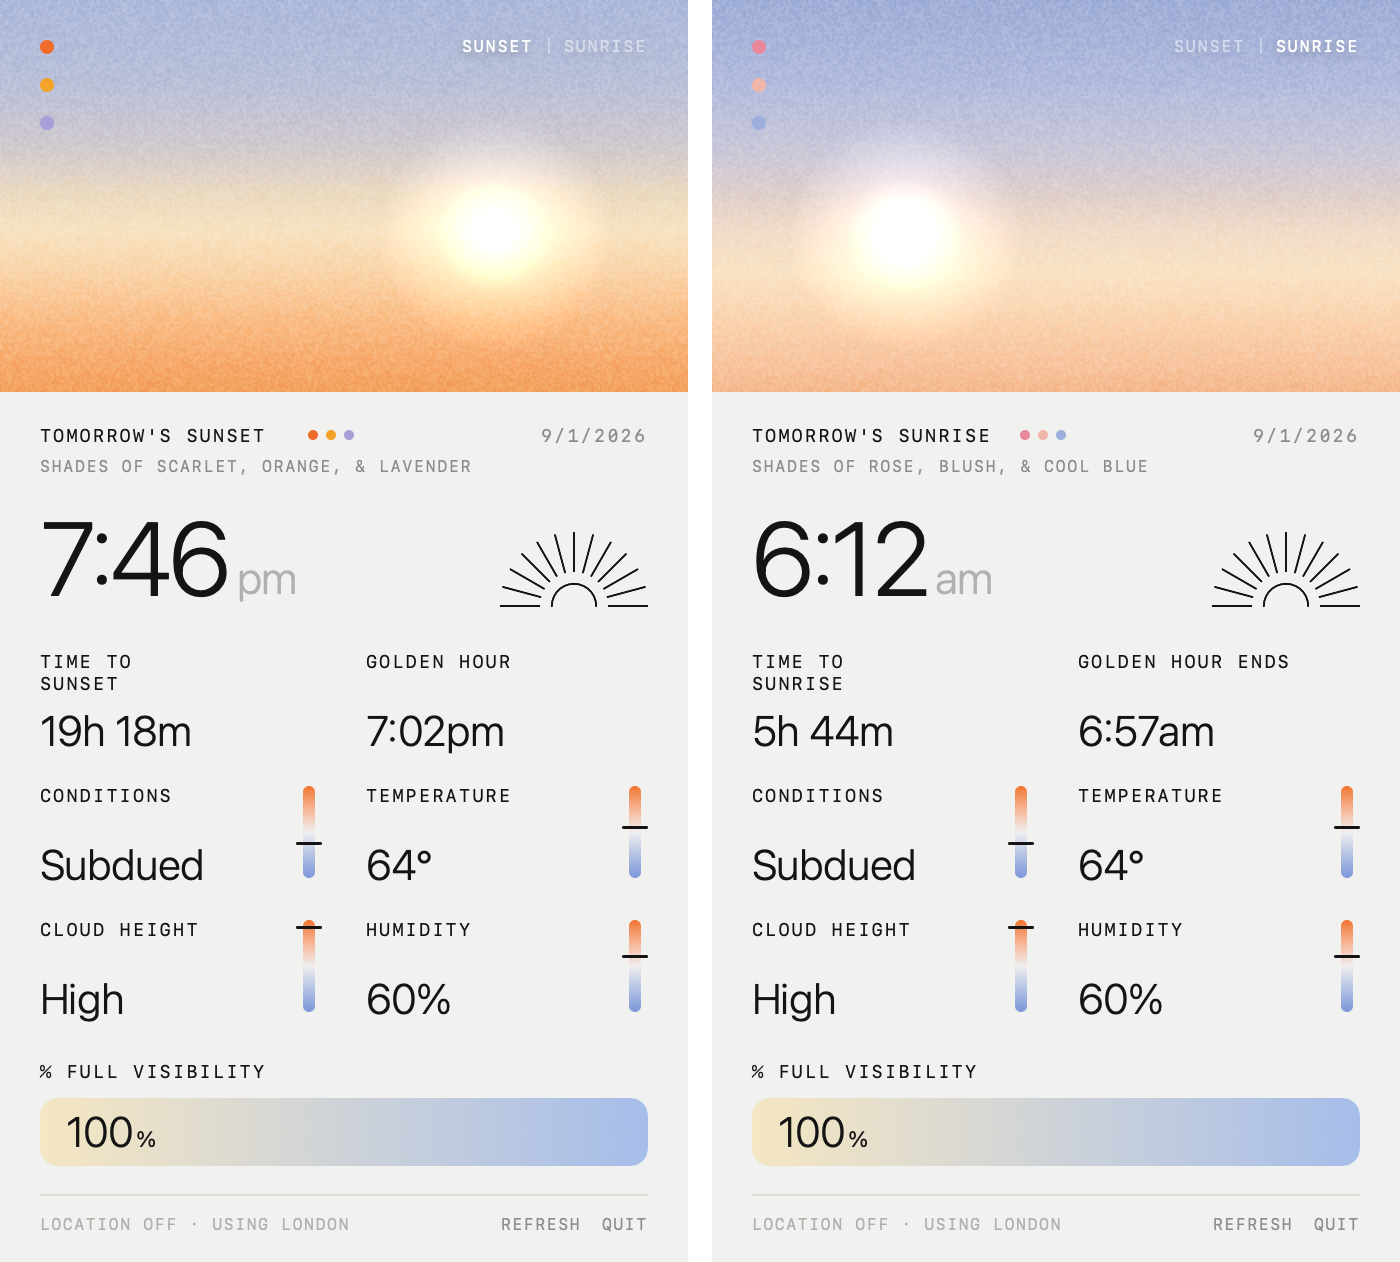
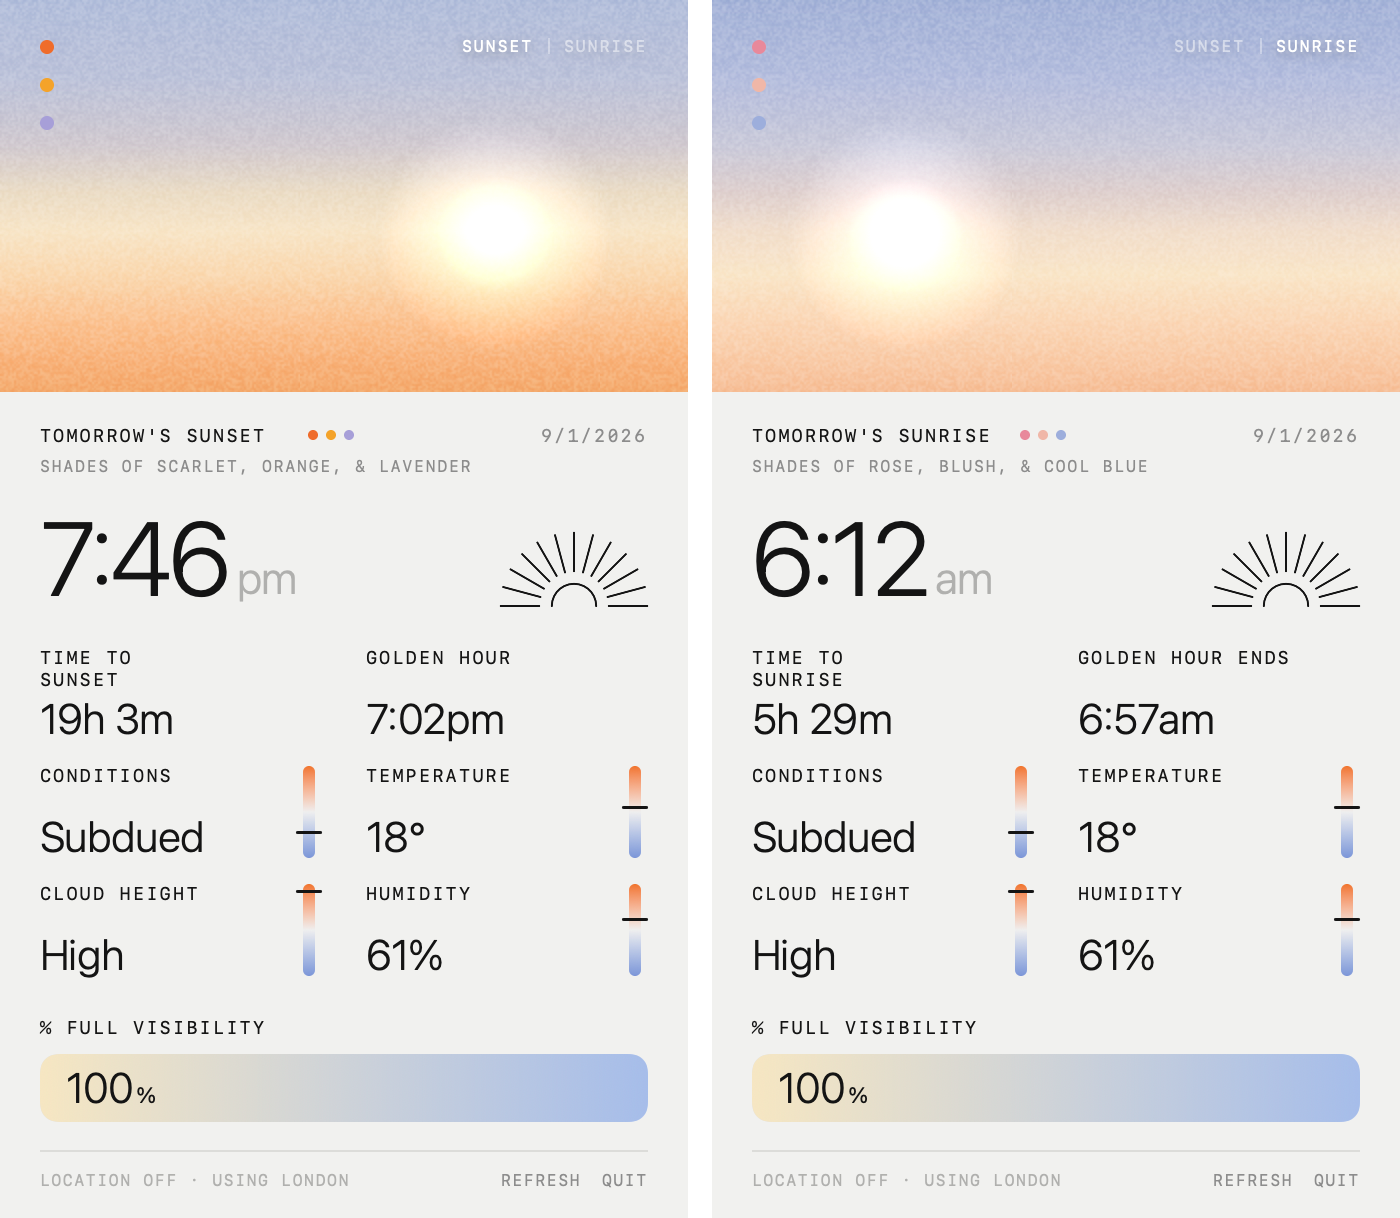
Show temperature in Celsius
Open-Meteo returns Celsius by default; the request was explicitly
overriding it to Fahrenheit. Drop the override and remap the gauge from
20-100F to -10-40C so the tick still spans a sensible range.

Screenshots regenerated.

diff --git a/Sources/SunsetBar/Weather.swift b/Sources/SunsetBar/Weather.swift
@@ -1,7 +1,7 @@
 import Foundation
 
 struct WeatherSnapshot {
-    var temperatureF: Double
+    var temperatureC: Double
     var humidity: Double        // %
     var cloudLow: Double        // %
     var cloudMid: Double        // %
@@ -61,7 +61,6 @@ enum WeatherService {
             .init(name: "longitude", value: String(format: "%.4f", longitude)),
             .init(name: "current", value: "temperature_2m,relative_humidity_2m,cloud_cover_low,cloud_cover_mid,cloud_cover_high"),
             .init(name: "hourly", value: "visibility"),
-            .init(name: "temperature_unit", value: "fahrenheit"),
             .init(name: "forecast_days", value: "1"),
             .init(name: "timezone", value: "auto"),
         ]
@@ -90,7 +89,7 @@ enum WeatherService {
         }
 
         return WeatherSnapshot(
-            temperatureF: current.temperature_2m ?? 0,
+            temperatureC: current.temperature_2m ?? 0,
             humidity: current.relative_humidity_2m ?? 0,
             cloudLow: current.cloud_cover_low ?? 0,
             cloudMid: current.cloud_cover_mid ?? 0,

diff --git a/Sources/SunsetBar/SunsetModel.swift b/Sources/SunsetBar/SunsetModel.swift
@@ -198,7 +198,7 @@ final class SunsetModel {
     var skyPhase: Double { mode.phase }
 
     var temperature: String {
-        weather.map { "\(Int($0.temperatureF.rounded()))°" } ?? "—"
+        weather.map { "\(Int($0.temperatureC.rounded()))°" } ?? "—"
     }
 
     var humidity: String {
@@ -215,8 +215,8 @@ final class SunsetModel {
 
     var temperatureFraction: Double {
         guard let w = weather else { return 0.5 }
-        // 20°F -> bottom, 100°F -> top.
-        return min(1, max(0, (w.temperatureF - 20) / 80))
+        // -10°C -> bottom, 40°C -> top.
+        return min(1, max(0, (w.temperatureC + 10) / 50))
     }
 
     var humidityFraction: Double {
